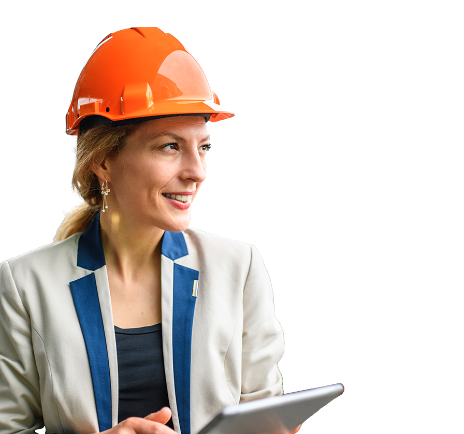
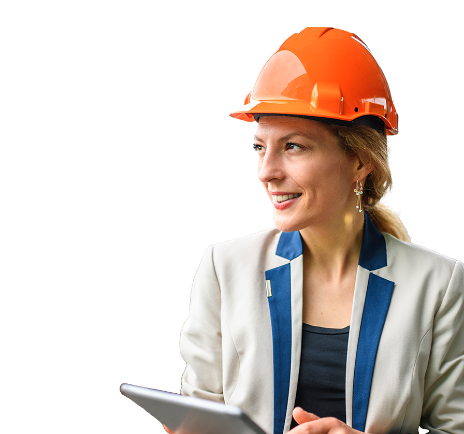
col3 + digit

diff --git a/resources/css/custom.css b/resources/css/custom.css
@@ -2,6 +2,10 @@
   margin-top: -12rem;
 }
 
+.margin-to-top2 {
+    margin-top: -5rem;
+}
+
 .before-line::before,
 .before-line::after {
     display: inline-block;
@@ -22,11 +26,3 @@
     transform: translateY(-0.75rem);
 }
 
-.img-hor {
-    -moz-transform: scaleX(-1);
-    -o-transform: scaleX(-1);
-    -webkit-transform: scaleX(-1);
-    transform: scaleX(-1);
-    filter: FlipH;
-    -ms-filter: "FlipH";
-}

diff --git a/resources/views/bay/de/home.blade.php b/resources/views/bay/de/home.blade.php
@@ -121,7 +121,7 @@
                         Zentrale Verwaltung Ihrer lokalen Standorte und Optimierung deren technischer (u./o. administrativer) Prozesse.
                     </p>
                 </div>
-                
+
                 <div class="flex mt-8">
             		<div class="flex-none w-14 h-14"></div>
                     <a href="{{route('content.page',['pageID'=>'individual'])}}" class="bg-white border border-blue-800 text-blue-800  rounded mb-3 py-3 px-3 uppercase tracking-wider hover:text-white hover:bg-blue-800">
@@ -254,7 +254,6 @@
                 	</div>
                 </div>
     		</div>
-
         </div>
     </section>
 
@@ -343,7 +342,7 @@
 			</div>
         </div>
 	</section>
-    
+
     <section class="container mx-auto px-6 mt-14 mb-14 px-0 lg:px-24">
         <div class="grid grid-cols-1 lg:grid-cols-4 gap-0 h-full lg:h-[26rem] text-white">
           <div class="relative bg-gradient-to-b from-[#92CD6B] to-[#4DB069] h-80 lg:h-full p-5 z-0">
@@ -392,12 +391,12 @@
       	  </div>
         </div>
     </section>
-    
+
     <section class="bg-gradient-to-b from-[#4FAAE3] to-blue-800 text-white">
 		<div class="container mx-auto px-6 pt-10 pb-6 px-5">
     		<h3 class="text-3xl text-center before-line">NEWSLETTER</h3>
     		<div class="flex flex-wrap mx-auto items-baseline mt-12 w-full lg:w-10/12">
-    			<div class="w-full md:w-2/5 px-10 mb-10 lg:mb-0">	
+    			<div class="w-full md:w-2/5 px-10 mb-10 lg:mb-0">
     				Ihr E-Mail Adresse<br />
     				<input type="text" value="tbone" class="mt-1 block w-full px-3 py-2 bg-white border border-slate-300 rounded-md "/>
                 	<div class="flex mt-4">
@@ -418,7 +417,7 @@
                     </div>
                     <button class="bg-transparent text-white hover:text-white py-2 px-4 mt-5 border rounded">abbonieren</button>
     			</div>
-    			<div class="w-full md:w-3/5 px-10">	
+    			<div class="w-full md:w-3/5 px-10">
     				<div>Lubey Newsletter mit auf meine Bedürfnisse zugeschnittenen <br />Informationen rund um die Themen</div>
     				<div class="flex flex-wrap space-x-4 mt-5">
     					<div class="flex-none w-24">
@@ -431,7 +430,7 @@
                               <label class="form-check-label inline-block text-white" for="flexCheckDefault">
                                 Connect
                               </label>
-                            </div>	
+                            </div>
                             <div class="form-check mr-10">
                               <input class="form-check-input appearance-none h-4 w-4 border border-gray-300 rounded-sm bg-white checked:bg-blue-600 checked:border-blue-600 focus:outline-none transition duration-200 mt-1 align-top bg-no-repeat bg-center bg-contain float-left mr-2 cursor-pointer" type="checkbox" value="" id="flexCheckDefault">
                               <label class="form-check-label inline-block text-white" for="flexCheckDefault">
@@ -445,14 +444,14 @@
                               <label class="form-check-label inline-block text-white" for="flexCheckDefault">
                                 Digitale Lösungen
                               </label>
-                            </div>	
+                            </div>
                             <div class="form-check mr-10">
                               <input class="form-check-input appearance-none h-4 w-4 border border-gray-300 rounded-sm bg-white checked:bg-blue-600 checked:border-blue-600 focus:outline-none transition duration-200 mt-1 align-top bg-no-repeat bg-center bg-contain float-left mr-2 cursor-pointer" type="checkbox" value="" id="flexCheckDefault">
                               <label class="form-check-label inline-block text-white" for="flexCheckDefault">
                                 Consulting
                               </label>
                             </div>
-    					</div>								
+    					</div>
     				</div>
     				<div class="flex flex-wrap space-x-4 mt-5">
     					<div class="flex-none w-24">
@@ -465,7 +464,7 @@
                               <label class="form-check-label inline-block text-white" for="flexCheckDefault">
                                 Städte & Kommunen
                               </label>
-                            </div>	
+                            </div>
                             <div class="form-check mr-10">
                               <input class="form-check-input appearance-none h-4 w-4 border border-gray-300 rounded-sm bg-white checked:bg-blue-600 checked:border-blue-600 focus:outline-none transition duration-200 mt-1 align-top bg-no-repeat bg-center bg-contain float-left mr-2 cursor-pointer" type="checkbox" value="" id="flexCheckDefault">
                               <label class="form-check-label inline-block text-white" for="flexCheckDefault">
@@ -479,14 +478,14 @@
                               <label class="form-check-label inline-block text-white" for="flexCheckDefault">
                                 Industrie
                               </label>
-                            </div>	
+                            </div>
                             <div class="form-check mr-10">
                               <input class="form-check-input appearance-none h-4 w-4 border border-gray-300 rounded-sm bg-white checked:bg-blue-600 checked:border-blue-600 focus:outline-none transition duration-200 mt-1 align-top bg-no-repeat bg-center bg-contain float-left mr-2 cursor-pointer" type="checkbox" value="" id="flexCheckDefault">
                               <label class="form-check-label inline-block text-white" for="flexCheckDefault">
                                 Entsorger
                               </label>
                             </div>
-                        </div>			
+                        </div>
     				</div>
     			</div>
     		</div>

diff --git a/resources/views/content/de/digit.blade.php b/resources/views/content/de/digit.blade.php
@@ -35,4 +35,82 @@
             </div>
         </div>
     </section>
+
+    <section class="bg-gradient-to-b from-[#94CE6D] to-[#53B36E] text-white margin-to-top2 mt-0">
+        <div class="container mx-auto px-6 pt-0 pb-0 px-5">
+            <div class="grid grid-cols-1 lg:grid-cols-2 gap-0 text-white">
+                <div class="pt-0 px-20">
+                    <img class="object-cover h-full min-w-full" src="{{asset('img/frontend/anzug_background.png')}}" alt="Lubey Anzug" />
+                </div>
+                <div class="py-20">
+                    <h2 class="text-3xl">
+                        Maßgeschneiderte Lösungen - <br />
+                        So individuell wie Ihr Unternehmen
+                    </h2>
+                    <div class="flex items-center flex-wrap mt-10">
+                        <div class="flex">
+                            <div class="flex-none w-14 h-14">
+                                <img src="{{asset('img/frontend/check_white.png')}}" width="36" alt="Check"/>
+                            </div>
+                            <div class="mb-8">
+                                <h4 class="text-xl font-semibold mb-4">Überschrift</h4>
+                                <p>
+                                    Digitalisierung Ihrer Prozesse und Vernetzung Ihrer Anwendungen.
+                                    Verwalten Sie Ihre Standorte, Projekte, Lieferanten und Kunden.
+                                </p>
+                            </div>
+                        </div>
+                        <div class="flex">
+                            <div class="flex-none w-14 h-14">
+                                <img src="{{asset('img/frontend/check_white.png')}}" width="36" alt="Check"/>
+                            </div>
+                            <div class="mb-8">
+                                <h4 class="text-xl font-semibold mb-4">Überschrift</h4>
+                                <p>
+                                    Digitalisierung Ihrer Prozesse und Vernetzung Ihrer Anwendungen.
+                                    Verwalten Sie Ihre Standorte, Projekte, Lieferanten und Kunden.
+                                </p>
+                            </div>
+                        </div>
+                    </div>
+                </div>
+            </div>
+        </div>
+    </section>
+
+    <!-- COL 3 -->
+    <section class="container mx-auto px-6 mt-14 mb-14 px-0 lg:px-24">
+        <div class="grid grid-cols-1 lg:grid-cols-3 gap-0 h-full lg:h-80 text-white">
+            <div class="relative bg-gradient-to-b from-[#4EAAE3] to-[#07468F] h-80 lg:h-full pl-10 pt-20 z-0">
+                <h3>Lubey</h3>
+                <h2 class="relative text-3xl font-semibold z-10 mb-3">Trade</h2>
+                <button class="relative bottom-5 z-10 bg-blue-800/50 hover:text-white py-2 px-12 text-lg font-semibold mt-5 border rounded">
+                    Erfahren Sie mehr
+                </button>
+                <div class="absolute bottom-0 right-0 z-0" >
+                    <img class="w-[17.5rem]" src="{{asset('img/frontend/group2_col3.png')}}" alt="group1"/>
+                </div>
+            </div>
+            <div class="relative bg-gradient-to-b from-[#8C589E] to-[#482F51] h-80 lg:h-full pl-10 pt-20 z-0">
+                <h3>Lubey</h3>
+                <h2 class="relative text-3xl font-semibold z-10 mb-3">CONNECT</h2>
+                <button class="relative bottom-5 z-10 bg-purple-500/50 hover:text-white py-2 px-5 text-lg font-semibold mt-5 border rounded">
+                    Erfahren Sie mehr
+                </button>
+                <div class="absolute bottom-0 right-0 z-0">
+                    <img class="w-80" src="{{asset('img/frontend/group3_col3.png')}}"  alt="group3"/>
+                </div>
+            </div>
+            <div class="relative bg-gradient-to-b from-[#EEC114] to-[#FCD850] h-80 lg:h-full pl-10 pt-20 z-0">
+                <h3>Lubey</h3>
+                <h3 class="relative text-3xl font-semibold z-10 mb-3">CONSULTING</h3>
+                <button class="relative bottom-5 z-10 bg-yellow-400/50 hover:text-white py-2 px-12 text-lg font-semibold mt-5 border rounded">
+                    Erfahren Sie mehr
+                </button>
+                <div class="absolute bottom-0 right-0 z-0">
+                    <img class="w-[20rem]" src="{{asset('img/frontend/group4_col3.png')}}" alt="group4"/>
+                </div>
+            </div>
+        </div>
+    </section>
 @endsection

diff --git a/resources/views/content/de/trade.blade.php b/resources/views/content/de/trade.blade.php
@@ -234,6 +234,7 @@
         </h3>
     </section>
 
+    <!-- COL 3 -->
     <section class="container mx-auto px-6 mt-14 mb-14 px-0 lg:px-24">
         <div class="grid grid-cols-1 lg:grid-cols-3 gap-0 h-full lg:h-80 text-white">
             <div class="relative bg-gradient-to-b from-[#92CD6B] to-[#4DB069] h-80 lg:h-full pl-10 pt-20 z-0">
@@ -242,8 +243,8 @@
                 <button class="relative bottom-5 z-10 bg-green-400/50 hover:text-white py-2 px-12 text-lg font-semibold mt-5 border rounded">
                     Erfahren Sie mehr
                 </button>
-                <div class="absolute bottom-0 left-16 w-96 z-0" >
-                    <img class="img-hor w-[21rem]" src="{{asset('img/frontend/group1_col3.png')}}" alt="group1"/>
+                <div class="absolute bottom-0 right-0 z-0" >
+                    <img class="w-[21rem]" src="{{asset('img/frontend/group1_col3.png')}}" alt="group1"/>
                 </div>
             </div>
             <div class="relative bg-gradient-to-b from-[#8C589E] to-[#482F51] h-80 lg:h-full pl-10 pt-20 z-0">
@@ -252,8 +253,8 @@
                 <button class="relative bottom-5 z-10 bg-purple-500/50 hover:text-white py-2 px-5 text-lg font-semibold mt-5 border rounded">
                     Erfahren Sie mehr
                 </button>
-                <div class="absolute bottom-0 left-16 w-96 z-0">
-                    <img class="img-hor w-80" src="{{asset('img/frontend/group3_col3.png')}}"  alt="group3"/>
+                <div class="absolute bottom-0 right-0 z-0">
+                    <img class="w-80" src="{{asset('img/frontend/group3_col3.png')}}"  alt="group3"/>
                 </div>
             </div>
             <div class="relative bg-gradient-to-b from-[#EEC114] to-[#FCD850] h-80 lg:h-full pl-10 pt-20 z-0">
@@ -262,7 +263,7 @@
                 <button class="relative bottom-5 z-10 bg-yellow-400/50 hover:text-white py-2 px-12 text-lg font-semibold mt-5 border rounded">
                     Erfahren Sie mehr
                 </button>
-                <div class="absolute bottom-0 left-16 w-96 z-0">
+                <div class="absolute bottom-0 right-0 z-0">
                     <img class="w-[20rem]" src="{{asset('img/frontend/group4_col3.png')}}" alt="group4"/>
                 </div>
             </div>

diff --git a/resources/views/content/de/connect.blade.php b/resources/views/content/de/connect.blade.php
@@ -31,4 +31,40 @@
             </div>
         </div>
     </section>
+
+    <!-- COL 3 -->
+    <section class="container mx-auto px-6 mt-14 mb-14 px-0 lg:px-24">
+        <div class="grid grid-cols-1 lg:grid-cols-3 gap-0 h-full lg:h-80 text-white">
+            <div class="relative bg-gradient-to-b from-[#92CD6B] to-[#4DB069] h-80 lg:h-full pl-10 pt-20 z-0">
+                <h3>Lubey</h3>
+                <h2 class="relative text-3xl font-semibold z-10 mb-3">INDIVIDUAL</h2>
+                <button class="relative bottom-5 z-10 bg-green-400/50 hover:text-white py-2 px-12 text-lg font-semibold mt-5 border rounded">
+                    Erfahren Sie mehr
+                </button>
+                <div class="absolute bottom-0 right-0 z-0" >
+                    <img class="w-[21rem]" src="{{asset('img/frontend/group1_col3.png')}}" alt="group1"/>
+                </div>
+            </div>
+            <div class="relative bg-gradient-to-b from-[#4EAAE3] to-[#07468F] h-80 lg:h-full pl-10 pt-20 z-0">
+                <h3>Lubey</h3>
+                <h2 class="relative text-3xl font-semibold z-10 mb-3">Trade</h2>
+                <button class="relative bottom-5 z-10 bg-blue-800/50 hover:text-white py-2 px-12 text-lg font-semibold mt-5 border rounded">
+                    Erfahren Sie mehr
+                </button>
+                <div class="absolute bottom-0 right-0 z-0" >
+                    <img class="w-[17.5rem]" src="{{asset('img/frontend/group2_col3.png')}}" alt="group1"/>
+                </div>
+            </div>
+            <div class="relative bg-gradient-to-b from-[#EEC114] to-[#FCD850] h-80 lg:h-full pl-10 pt-20 z-0">
+                <h3>Lubey</h3>
+                <h3 class="relative text-3xl font-semibold z-10 mb-3">CONSULTING</h3>
+                <button class="relative bottom-5 z-10 bg-yellow-400/50 hover:text-white py-2 px-12 text-lg font-semibold mt-5 border rounded">
+                    Erfahren Sie mehr
+                </button>
+                <div class="absolute bottom-0 right-0 z-0">
+                    <img class="w-[20rem]" src="{{asset('img/frontend/group4_col3.png')}}" alt="group4"/>
+                </div>
+            </div>
+        </div>
+    </section>
 @endsection

diff --git a/resources/views/content/de/consult.blade.php b/resources/views/content/de/consult.blade.php
@@ -31,4 +31,40 @@
             </div>
         </div>
     </section>
+
+    <!-- COL 3 -->
+    <section class="container mx-auto px-6 mt-14 mb-14 px-0 lg:px-24">
+        <div class="grid grid-cols-1 lg:grid-cols-3 gap-0 h-full lg:h-80 text-white">
+            <div class="relative bg-gradient-to-b from-[#92CD6B] to-[#4DB069] h-80 lg:h-full pl-10 pt-20 z-0">
+                <h3>Lubey</h3>
+                <h2 class="relative text-3xl font-semibold z-10 mb-3">INDIVIDUAL</h2>
+                <button class="relative bottom-5 z-10 bg-green-400/50 hover:text-white py-2 px-12 text-lg font-semibold mt-5 border rounded">
+                    Erfahren Sie mehr
+                </button>
+                <div class="absolute bottom-0 right-0 z-0" >
+                    <img class="w-[21rem]" src="{{asset('img/frontend/group1_col3.png')}}" alt="group1"/>
+                </div>
+            </div>
+            <div class="relative bg-gradient-to-b from-[#4EAAE3] to-[#07468F] h-80 lg:h-full pl-10 pt-20 z-0">
+                <h3>Lubey</h3>
+                <h2 class="relative text-3xl font-semibold z-10 mb-3">Trade</h2>
+                <button class="relative bottom-5 z-10 bg-blue-800/50 hover:text-white py-2 px-12 text-lg font-semibold mt-5 border rounded">
+                    Erfahren Sie mehr
+                </button>
+                <div class="absolute bottom-0 right-0 z-0" >
+                    <img class="w-[17.5rem]" src="{{asset('img/frontend/group2_col3.png')}}" alt="group1"/>
+                </div>
+            </div>
+            <div class="relative bg-gradient-to-b from-[#8C589E] to-[#482F51] h-80 lg:h-full pl-10 pt-20 z-0">
+                <h3>Lubey</h3>
+                <h2 class="relative text-3xl font-semibold z-10 mb-3">CONNECT</h2>
+                <button class="relative bottom-5 z-10 bg-purple-500/50 hover:text-white py-2 px-5 text-lg font-semibold mt-5 border rounded">
+                    Erfahren Sie mehr
+                </button>
+                <div class="absolute bottom-0 right-0 z-0">
+                    <img class="w-80" src="{{asset('img/frontend/group3_col3.png')}}"  alt="group3"/>
+                </div>
+            </div>
+        </div>
+    </section>
 @endsection
